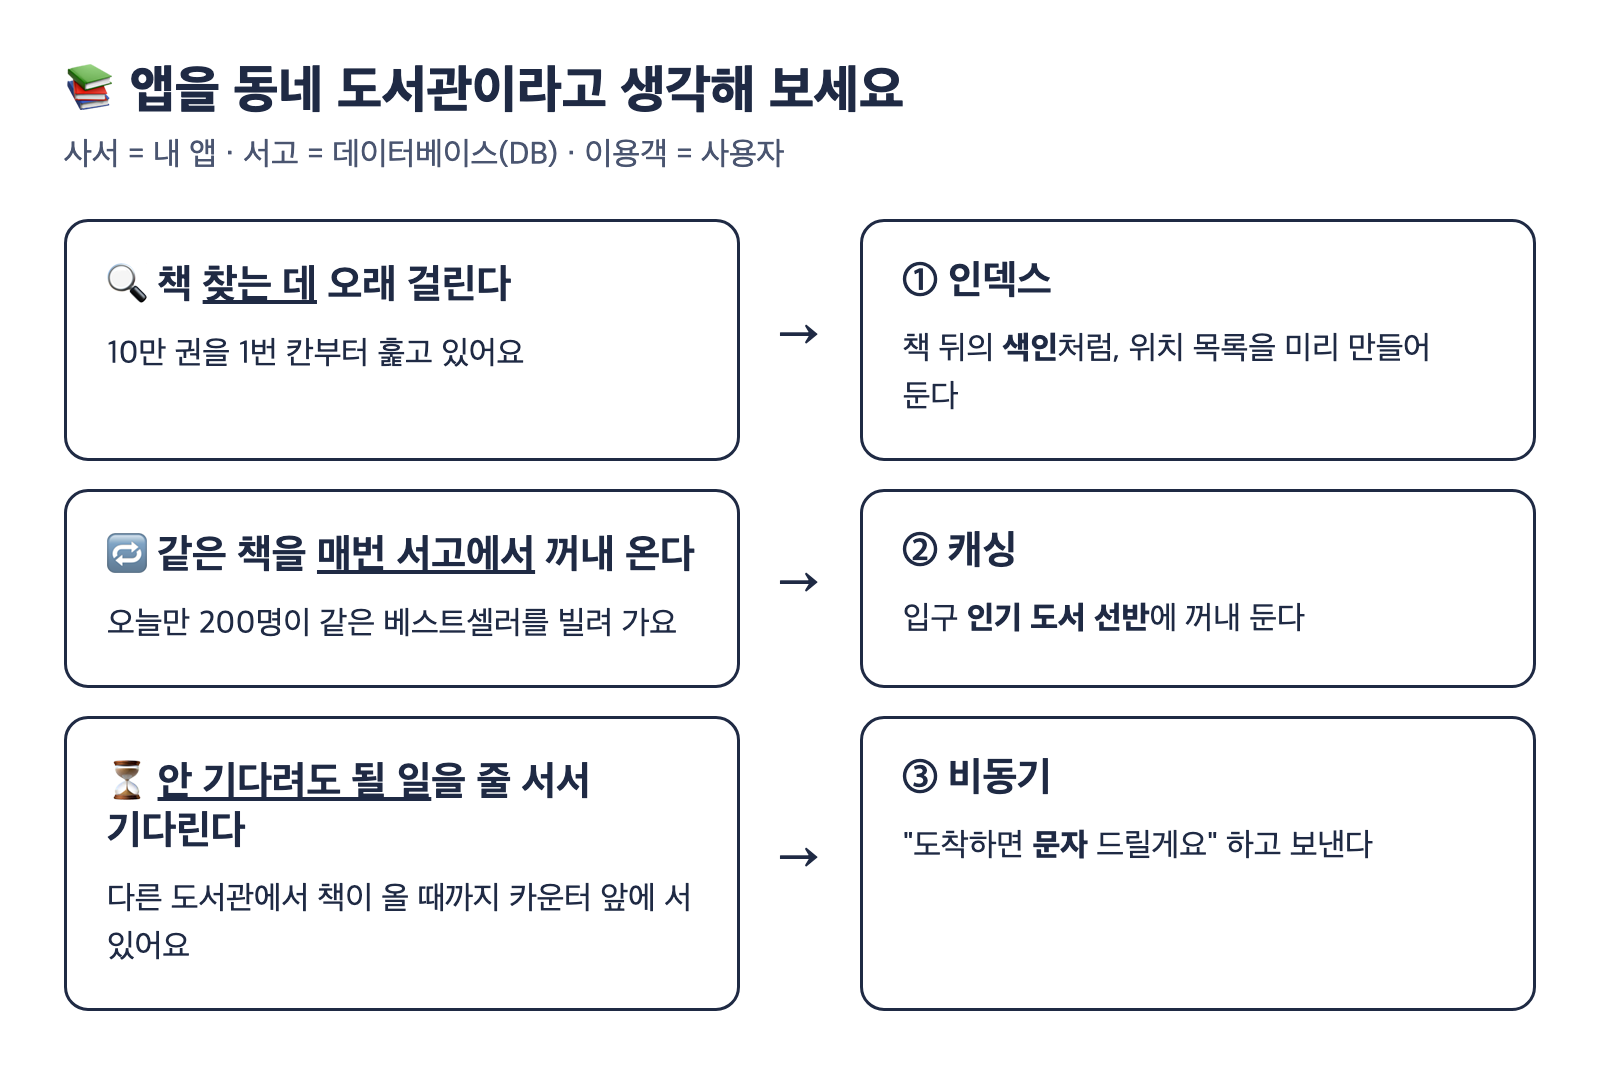
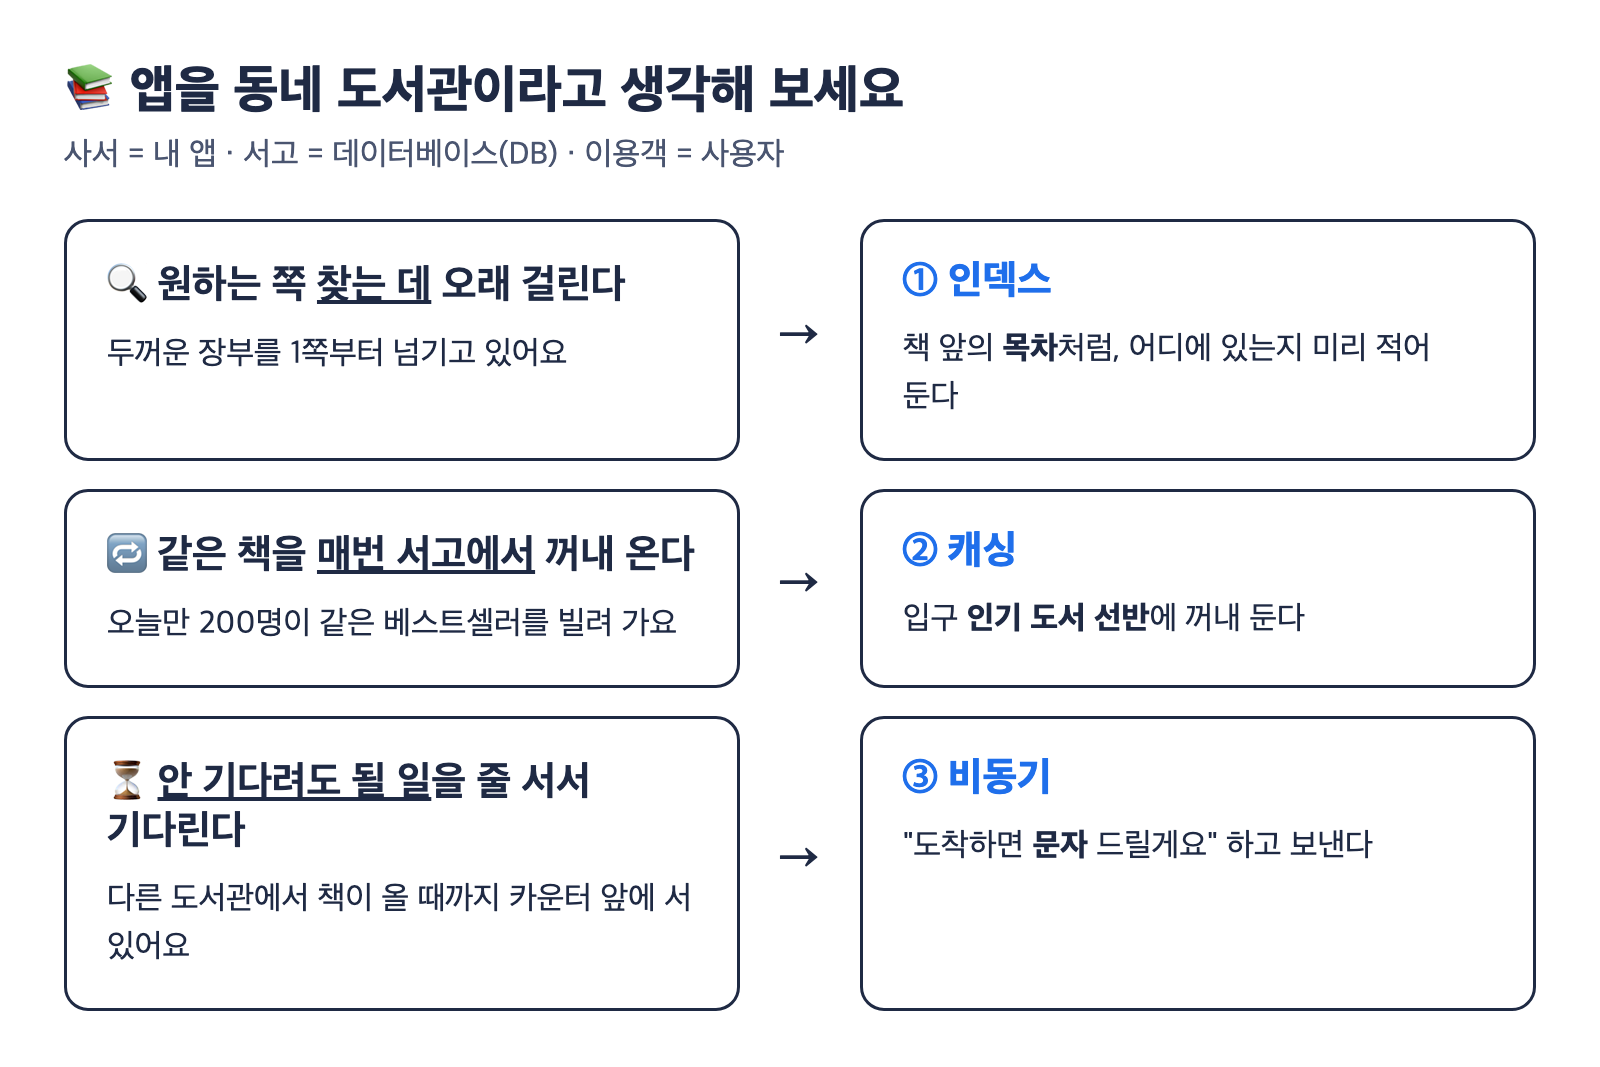
인덱스 비유를 책 앞의 목차로 바꾸고 그림 다시 그림

diff --git a/02_서비스_만들기/03_성능개선하기/01_인덱스,캐싱,비동기.md b/02_서비스_만들기/03_성능개선하기/01_인덱스,캐싱,비동기.md
@@ -4,7 +4,7 @@ type: 개발
 tags: ["바이브코딩", "커리큘럼", "비개발자", "심화", "성능"]
 created: 2026-11-24
 updated: 2026-11-24
-summary: "느려진 앱을 도서관 비유로 진단한다. 찾는 게 느리면 인덱스(책 뒤의 색인), 같은 걸 매번 다시 가져오면 캐싱(입구 인기 도서 선반, 유통기한 TTL), 안 기다려도 될 일을 기다리면 비동기(도착하면 문자). 먼저 재고 하나씩 고치며 각 처방의 대가까지 안다"
+summary: "느려진 앱을 도서관 비유로 진단한다. 찾는 게 느리면 인덱스(책 앞의 목차), 같은 걸 매번 다시 가져오면 캐싱(입구 인기 도서 선반, 유통기한 TTL), 안 기다려도 될 일을 기다리면 비동기(도착하면 문자). 먼저 재고 하나씩 고치며 각 처방의 대가까지 안다"
 review_date: null
 review_interval: 7d
 last_reviewed: null
@@ -23,7 +23,7 @@ last_reviewed: null
 
 | 이런 증상이면 | 처방 | 도서관에서는 |
 |---|---|---|
-| 데이터가 쌓일수록 목록과 검색이 **점점** 느려진다 | **인덱스** | 책 뒤의 색인 |
+| 데이터가 쌓일수록 목록과 검색이 **점점** 느려진다 | **인덱스** | 책 앞의 목차 |
 | 모두가 같은 화면을 보는데 **사람이 몰리면** 느려진다 | **캐싱** | 입구 인기 도서 선반 |
 | 버튼을 누르면 **몇 초씩 화면이 멈춘다** | **비동기** | "도착하면 문자 드릴게요" |
 
@@ -40,12 +40,12 @@ last_reviewed: null
 
 ## ① 찾는 게 느리면 인덱스
 
-![색인 없이 처음부터 훑기와 색인으로 바로 찾기 비교](01_그림/02_인덱스-책-뒤의-색인.png)
+![목차 없이 처음부터 넘기기와 목차로 바로 찾기 비교](01_그림/02_인덱스-책-앞의-목차.png)
 
-DB(데이터베이스, 앱의 데이터 창고)는 따로 말하지 않으면 첫 줄부터 한 줄씩 넘기며 찾아요. 데이터가 적을 땐 티가 안 나다가, 쌓일수록 느려져요. 인덱스는 **값마다 어디에 있는지 적은 목록을 미리 만들어 두는 것**이에요.
+DB(데이터베이스, 앱의 데이터 창고)는 따로 말하지 않으면 첫 줄부터 한 줄씩 넘기며 찾아요. 데이터가 적을 땐 티가 안 나다가, 쌓일수록 느려져요. 인덱스는 **책 앞의 목차처럼, 값마다 어디에 있는지 미리 적어 두는 것**이에요. 목차가 있으면 "김하나 → 37쪽"을 보고 그 쪽만 펼쳐요.
 
 - **이럴 때 써요:** 자주 거르는 칸(회원 아이디, 날짜, 카테고리)과 자주 정렬하는 칸.
-- **대가:** 저장할 때마다 색인도 고쳐야 해서 **저장이 조금 느려져요.** 실제로 느린 검색에만 다세요.
+- **대가:** 저장할 때마다 목차도 고쳐야 해서 **저장이 조금 느려져요.** 실제로 느린 검색에만 다세요.
 - Supabase를 쓴다면 **Index Advisor**가 느린 조회에 맞는 인덱스를 추천해 줘요.
 
 ```

diff --git a/02_서비스_만들기/02_키우기/08_제품08-비용-성능-모바일.md b/02_서비스_만들기/02_키우기/08_제품08-비용-성능-모바일.md
@@ -62,7 +62,7 @@ summary: "요금 폭탄과 앱 멈춤을 막고, 느린 앱을 손보고, 웹앱
 
 느려지는 대표 원인 네 가지예요. 코치에게 시켜서 손보세요.
 
-- **인덱스(index) = 책 뒤의 색인.** 없으면 DB가 **모든 행을 처음부터 다 훑어요**(느림). 자주 **WHERE(필터), ORDER BY(정렬), JOIN(테이블 연결)** 하는 컬럼, 특히 **외래키**에 인덱스를 추가하면 빨라져요. **Supabase Index Advisor**가 느린 쿼리에 딱 맞는 인덱스 SQL을 추천해줘요. ⚠ 단, 인덱스는 **쓰기를 느리게** 하니 아무 데나 말고 **실제로 느린 쿼리에만**.
+- **인덱스(index) = 책 앞의 목차.** 없으면 DB가 **모든 행을 처음부터 다 훑어요**(느림). 자주 **WHERE(필터), ORDER BY(정렬), JOIN(테이블 연결)** 하는 컬럼, 특히 **외래키**에 인덱스를 추가하면 빨라져요. **Supabase Index Advisor**가 느린 쿼리에 딱 맞는 인덱스 SQL을 추천해줘요. ⚠ 단, 인덱스는 **쓰기를 느리게** 하니 아무 데나 말고 **실제로 느린 쿼리에만**.
 - **이미지 = `next/image` 쓰기.** `<img>` 대신 `next/image`를 쓰면 자동으로 **압축, WebP 변환, 지연 로딩(lazy load)**이 돼요. **2MB 사진이 180KB로** 줄어드는 식이에요. `<img>` 남발은 대역폭(egress) 낭비예요.
 - **N+1 피하기.** 목록 100개를 보여주면서 **작성자를 하나씩 따로 조회**하면 쿼리가 **101번**이에요(1 + 100 = N+1). 이걸 **관계 임베딩/조인 한 번**으로 합치면 쿼리 1번으로 끝나요.
 - **페이지네이션 + 필요한 컬럼만.** 한 번에 다 불러오지 말고 **페이지 단위**로 나누고, `select('*')`(전부) 대신 **필요한 컬럼만** 골라 부르세요.

diff --git a/02_서비스_만들기/03_성능개선하기/_index.md b/02_서비스_만들기/03_성능개선하기/_index.md
@@ -16,5 +16,5 @@ generated_by: scripts/generate_folder_indexes.py
 
 | 문서 | 요약 | 상태·주의 |
 | --- | --- | --- |
-| [성능01 — 인덱스·캐싱·비동기](01_%EC%9D%B8%EB%8D%B1%EC%8A%A4%2C%EC%BA%90%EC%8B%B1%2C%EB%B9%84%EB%8F%99%EA%B8%B0.md) | 느려진 앱을 도서관 비유로 진단한다. 찾는 게 느리면 인덱스(책 뒤의 색인), 같은 걸 매번 다시 가져오면 캐싱(입구 인기 도서 선반, 유통기한 TTL), 안 기다려도 될 일을 기다리면 비동기(도착하면 문자). 먼저 재고 하나씩 고치며 각 처방의 대가까지 안다 | — |
+| [성능01 — 인덱스·캐싱·비동기](01_%EC%9D%B8%EB%8D%B1%EC%8A%A4%2C%EC%BA%90%EC%8B%B1%2C%EB%B9%84%EB%8F%99%EA%B8%B0.md) | 느려진 앱을 도서관 비유로 진단한다. 찾는 게 느리면 인덱스(책 앞의 목차), 같은 걸 매번 다시 가져오면 캐싱(입구 인기 도서 선반, 유통기한 TTL), 안 기다려도 될 일을 기다리면 비동기(도착하면 문자). 먼저 재고 하나씩 고치며 각 처방의 대가까지 안다 | — |
 <!-- folder-index:auto:end -->
